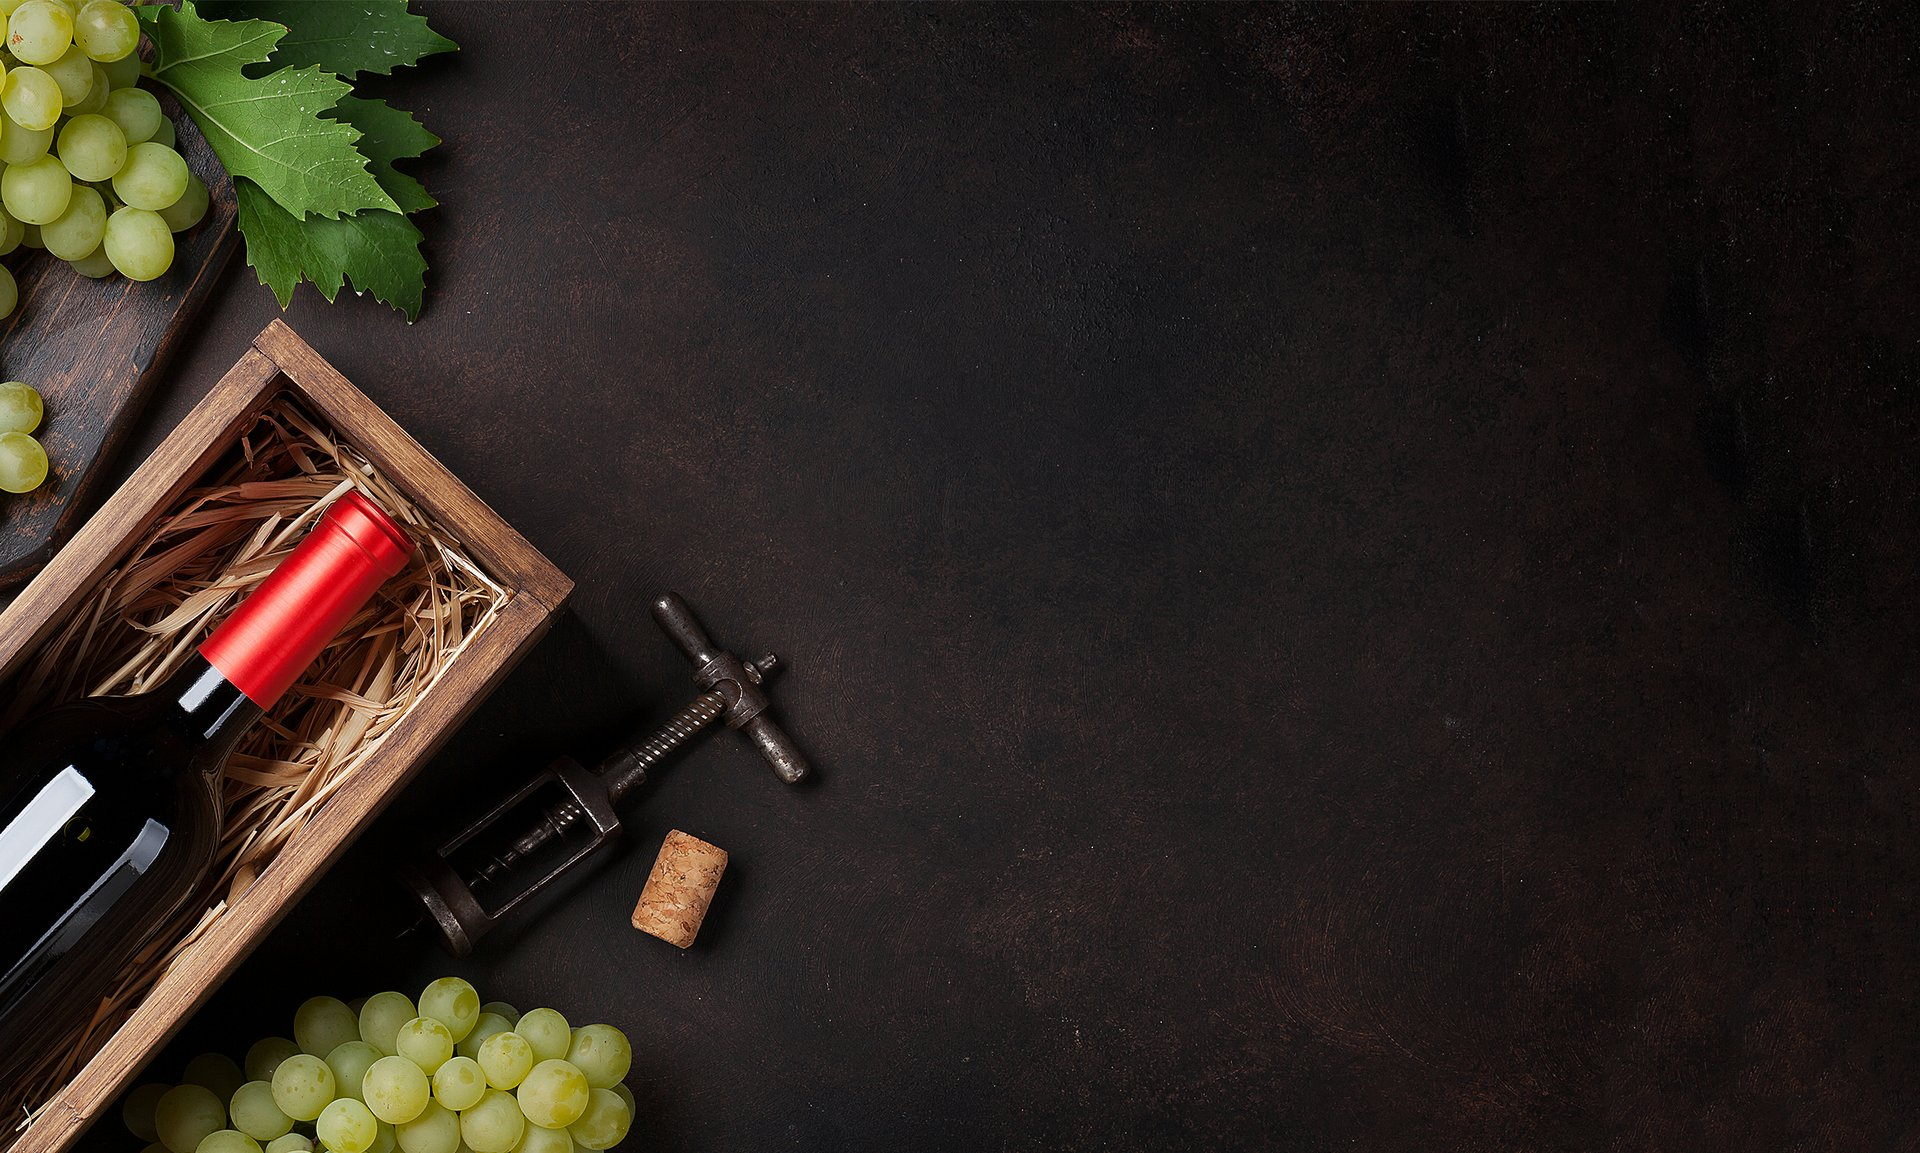
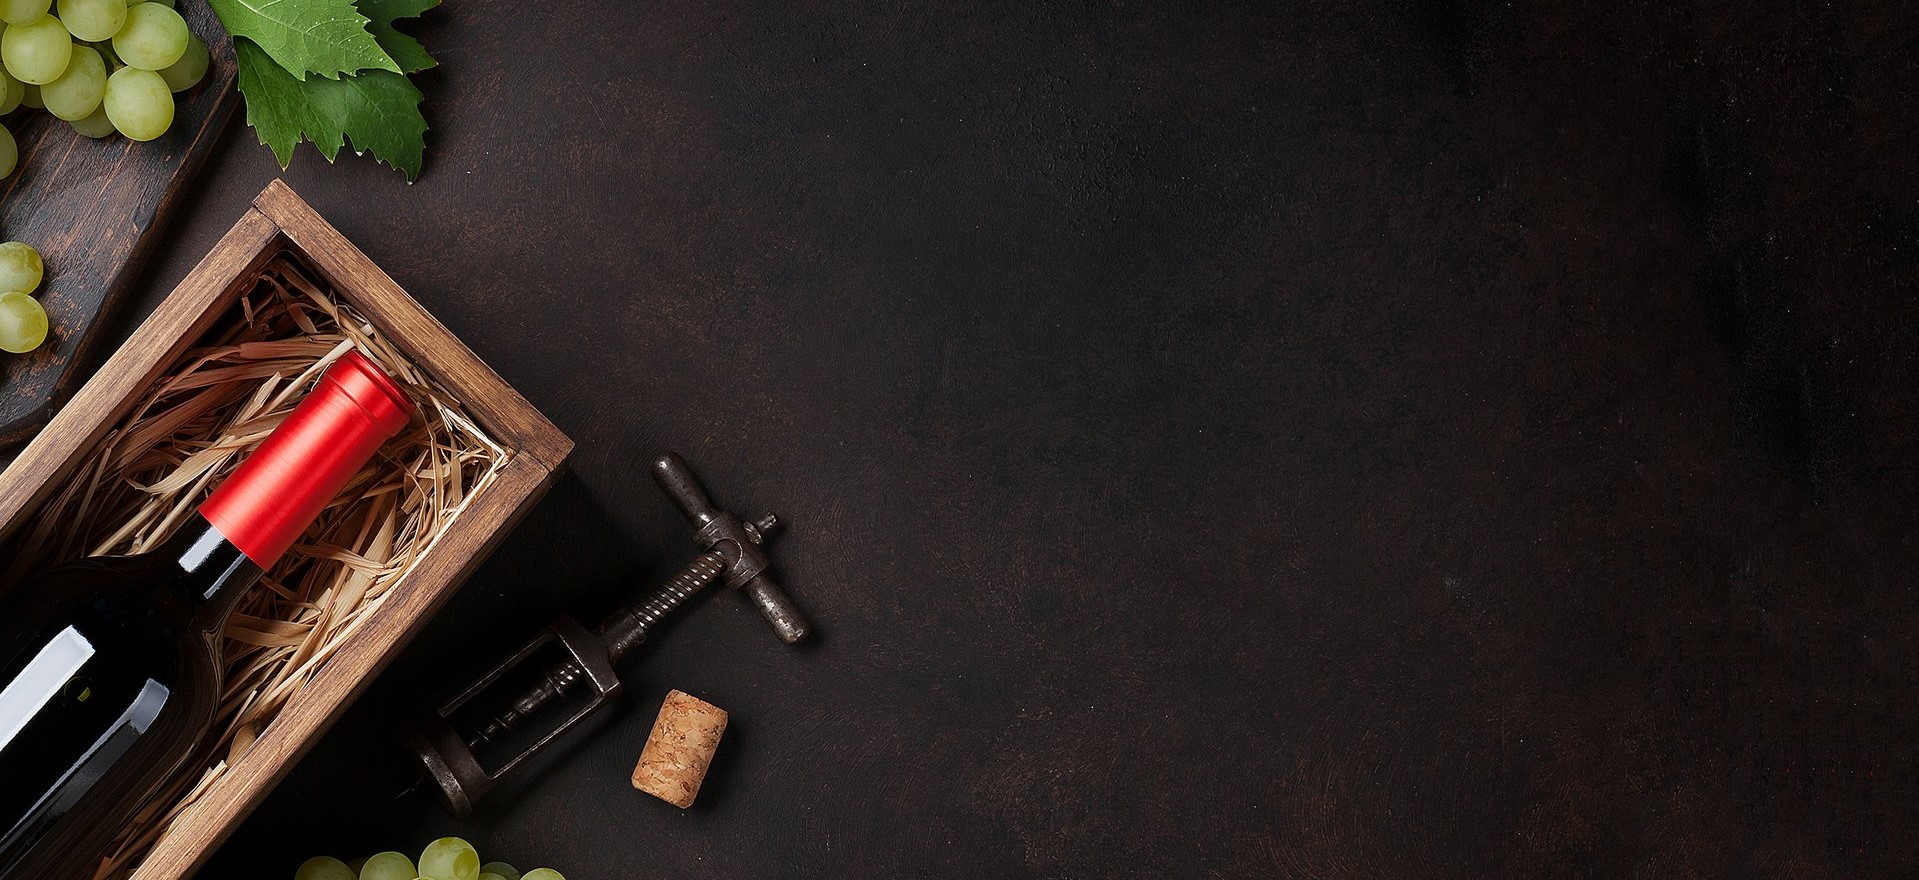
Html code

diff --git a/index.html b/index.html
@@ -9,7 +9,7 @@
     <link rel="stylesheet" href="css/fonts/font-first.css">
     <link rel="stylesheet" href="css/fonts/font-second.css">
     <link rel="stylesheet" href="css/fonts/font-third.css">
-    <!-- <link rel="stylesheet" href="css/style.css"> -->
+    <link rel="stylesheet" href="css/style.css">
     <title>Wine</title>
 </head>
 
@@ -32,7 +32,7 @@
 
         <main>
             <article>
-                <p>
+                <p class="text-decorative">
                     Taste our
                 </p>
                 <h1>
@@ -41,8 +41,8 @@
                 <img src="img/decor-main-page.svg" alt="decor img">
                 <p>Grown with love and respect for the California lands.</p>
                 <div class="pin-items">
-                    <div class="pin-element">Shop now</div>
-                    <div class="pin-element">Learn more</div>
+                    <div class="pin-items-element-shop">Shop now</div>
+                    <div class="pin-items-element-learn">Learn more</div>
                 </div>
             </article>
         </main>
@@ -50,15 +50,76 @@
 
     <div class="page-second">
         <div class="wine-describes">
-            <div class="wine-describes-element">
-                <img src="#" alt="#">
-                <p>For Your Special Events</p>
-                <hr>
-                <p>We have a great collection of exclusive reserve wines.</p>
-                <a href="#">Learn more </a>
+            <div class="container" style="background-image: url(/img/second-page-decorative-img-first.jpg); background-size: cover;">
+                <div class="wine-describes-items">
+                    <h4>For Your Special Events</h4>
+                    <hr>
+                    <p>We have a great collection of exclusive reserve wines.</p>
+                    <a href="#">Learn more <svg xmlns="http://www.w3.org/2000/svg" xmlns:xlink="http://www.w3.org/1999/xlink" version="1.1" x="0px" y="0px" viewBox="0 0 100 100" enable-background="new 0 0 100 100" xml:space="preserve" style="max-width:20px" height="100%"><g fill="currentColor"><polygon points="76.389,53.202 76.389,63.601 89.991,50.003 76.39,36.401 76.389,46.8 10.011,46.8 10.011,53.201 " fill="currentColor"/></g></svg></a>
+                </div>
             </div>
-            <div class="wine-describes-element"></div>
-            <div class="wine-describes-element"></div>
+            <div class="container" style="background-image: url(/img/second-page-decorative-img-second.jpg); background-size: cover;">
+                <div class="wine-describes-items">
+                    <h4>100% Organic Wines</h4>
+                    <hr>
+                    <p>Only natural wine without all kinds of additives or flavors.</p>
+                    <a href="#">Learn more <svg xmlns="http://www.w3.org/2000/svg" xmlns:xlink="http://www.w3.org/1999/xlink" version="1.1" x="0px" y="0px" viewBox="0 0 100 100" enable-background="new 0 0 100 100" xml:space="preserve" style="max-width:20px" height="100%"><g fill="currentColor"><polygon points="76.389,53.202 76.389,63.601 89.991,50.003 76.39,36.401 76.389,46.8 10.011,46.8 10.011,53.201 " fill="currentColor"/></g></svg></a>
+                </div>
+            </div>
+            <div class="container" style="background-image: url(/img/second-page-decorative-img-third.jpg); background-size: cover;">
+                <div class="wine-describes-items">
+                    <h4>Selected Grape Varieties</h4>
+                    <hr>
+                    <p>We produce and sell the finest wines made of the best grape varieties.</p>
+                    <a href="#">Learn more <svg xmlns="http://www.w3.org/2000/svg" xmlns:xlink="http://www.w3.org/1999/xlink" version="1.1" x="0px" y="0px" viewBox="0 0 100 100" enable-background="new 0 0 100 100" xml:space="preserve" style="max-width:20px" height="100%"><g fill="currentColor"><polygon points="76.389,53.202 76.389,63.601 89.991,50.003 76.39,36.401 76.389,46.8 10.011,46.8 10.011,53.201 " fill="currentColor"/></g></svg></a>
+                </div>
+            </div>
+        </div>
+
+        <div class="wine-describes-special-items">
+            <p>100% natural</p>
+            <h2>What Makes Our Wines Special</h2>
+            <img src="img/decor-main-page.svg" alt="decor img">
+            <p>We use only 100% natural grapes, no impurities.</p>
+            <div class="wine-describes-special-items-block">
+                <div class="wine-img"><img src="#" alt="#"></div>
+                <div class="wine-describes-special-items-block-items">
+                    <div class="wine-describes-special-items-block-items-element">
+                        <div class="container">
+                            <p>Amazing Taste</p>
+                            <hr>
+                            <p>We make wine from selected grapes of the best varieties.</p>
+                        </div>
+                        <div class="container">
+                            <p>Naturalness</p>
+                            <hr>
+                            <p>In the production of wine, we use only natural ingredients.</p>
+                        </div>
+                        <div class="container">
+                            <p>Ecological Safety</p>
+                            <hr>
+                            <p>Grapes for wine production are grown in an ecologically clean place.</p>
+                        </div>
+                    </div>
+                    <div class="wine-describes-special-items-block-items-element">
+                        <div class="container">
+                            <p>Natural Fermentation</p>
+                            <hr>
+                            <p>We do not add alcohol or any additives to increase ABV.</p>
+                        </div>
+                        <div class="container">
+                            <p>Wine Aging</p>
+                            <hr>
+                            <p>Before bottling, the wine is aged in special oak barrels.</p>
+                        </div>
+                        <div class="container">
+                            <p>Classic Varieties</p>
+                            <hr>
+                            <p>From Chardonnay to Syrah, we offer classic wines that everyone likes.</p>
+                        </div>
+                    </div>
+                </div>
+            </div>
         </div>
     </div>
 </body>

diff --git a/css/style.css b/css/style.css
@@ -4,24 +4,24 @@
 }
 
 :root {
-    --main-font: -apple-system, BlinkMacSystemFont, "Segoe UI", Roboto, Helvetica, Arial, sans-serif, "Apple Color Emoji", "Segoe UI Emoji", "Segoe UI Symbol", "SF Pro Text";
+    --main-font: Rubik, sans-serif;
     --main-color: white;
 }
 
 body {
-    background: url(../img/background-first-page.jpg);
+    color: var(--main-color);
     font-family: var(--main-font);
+    text-decoration: none;
 }
 
 header {
     display: flex;
     color: var(--main-color);
-    background: rgba(0, 0, 0, 0.7);
-    opacity: 70%;
+    background: rgba(0, 0, 0, 0.5);
     flex: 1;
     justify-content: space-around;
-    width: 100%;
-    height: 100px;
+    max-width: 100%;
+    min-height: 100px;
 }
 
 nav {
@@ -36,7 +36,7 @@ nav {
 }
 
 .logo {
-    margin: 0px 300px 0px 0px;
+    margin: 0px 600px 0px 0px;
 }
 
 .logo-element {
@@ -48,4 +48,133 @@ nav {
     text-decoration: none;
     color: var(--main-color);
     margin: 0px 7px;
+    font-family: var(--main-font);
+    font-size: 14px;
+    font-weight: 500;
+    transition: 0.2s;
+}
+
+.nav-element:hover {
+    color: #ba5421;
+}
+
+.page-first {
+    background-image: url(../img/background-first-page.jpg);
+    max-width: 100%;
+    height: 900px;
+    background-attachment: fixed;
+    background-position: center;
+    background-repeat: no-repeat;
+    background-size: cover;
+}
+
+main {
+    display: flex;
+    justify-content: flex-end;
+    margin: 210px 190px 0px 0px;
+}
+
+main p {
+    font-family: var(--main-font);
+    font-size: 16px;
+}
+
+article p,
+h1,
+img,
+.pin-items {
+    padding: 12px 0px;
+}
+
+article p {
+    font-size: 18px;
+}
+
+.text-decorative {
+    font-size: 28px;
+}
+
+h1 {
+    font-size: 84px;
+    font-family: 'Prata';
+    font-style: normal;
+    font-weight: 400;
+}
+
+.wine-describes-items hr {
+    width: 46px;
+    height: 3px;
+    border: none;
+    background-color: #c8693a;
+}
+
+.pin-items {
+    display: flex;
+    font-size: 15px;
+    align-items: center;
+    margin: 15px 0px 0px 0px;
+    font-size: 15px;
+}
+
+.pin-items-element-shop {
+    font-weight: 600;
+    background-color: #c8693a;
+    width: 120px;
+    height: 50px;
+    text-align: center;
+    line-height: 45px;
+    cursor: default;
+    transition: 0.5s;
+}
+
+.pin-items-element-shop:hover {
+    background-color: #ba5421;
+}
+
+.pin-items-element-learn {
+    font-weight: 600;
+    margin: 0px 20px;
+    background-color: rgba(255, 255, 255, 0);
+    border: 3px solid white;
+    width: 120px;
+    height: 45px;
+    text-align: center;
+    line-height: 45px;
+    cursor: default;
+    transition: 0.5s;
+}
+
+.pin-items-element-learn:hover {
+    background-color: white;
+    color: black;
+}
+
+.page-second {
+    background-color: #261e1c;
+}
+
+.wine-describes {
+    display: flex;
+    justify-content: center;
+    padding: 100px 0px;
+}
+
+.page-second .container {
+    margin: 0px 30px;
+    padding: 2px 16px;
+    width: 350px;
+    height: 470px;
+    display: flex;
+    flex-direction: row;
+    align-items: flex-end;
+}
+
+.wine-describes-items h4 {
+    font-family: Prata, serif;
+    font-size: 22px;
+    font-weight: 400;
+}
+
+.wine-describes-items p {
+    color: #898082;
 }
